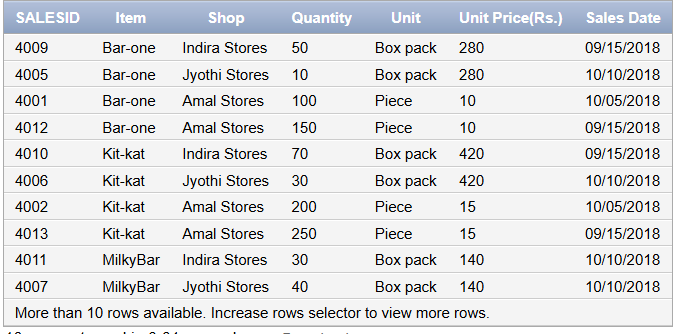
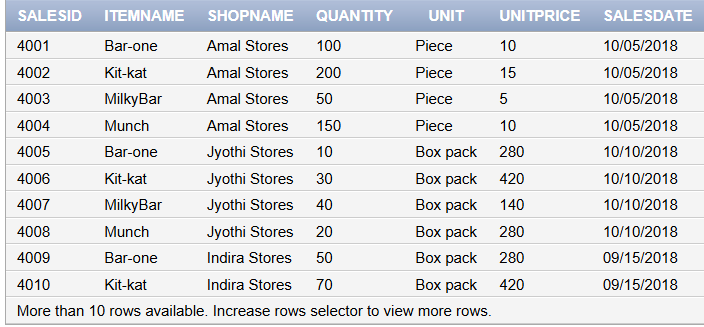
updated

diff --git a/workshop/main.md b/workshop/main.md
@@ -93,13 +93,14 @@ select * from salestest
 ### FINAL OUTPUT
 
 ```
-select salestest.salesid,itemtest.itemname As "Item",shoptest.shopname AS "Shop",salestest.quantity AS "Quantity",unittest.unit As "Unit",salestest.unitprice AS "Unit Price(Rs.)",salestest.salesdate AS "Sales Date" FROM salestest 
+select salestest.salesid,itemtest.itemname,shoptest.shopname,salestest.quantity,unittest.unit,salestest.unitprice,salestest.salesdate FROM salestest 
 INNER JOIN itemtest
 ON salestest.itemid = itemtest.itemid
 INNER JOIN shoptest
 ON salestest.shopid = shoptest.shopid
 INNER JOIN unittest
 ON salestest.unitid = unittest.unitid
+
 ```
 
 
